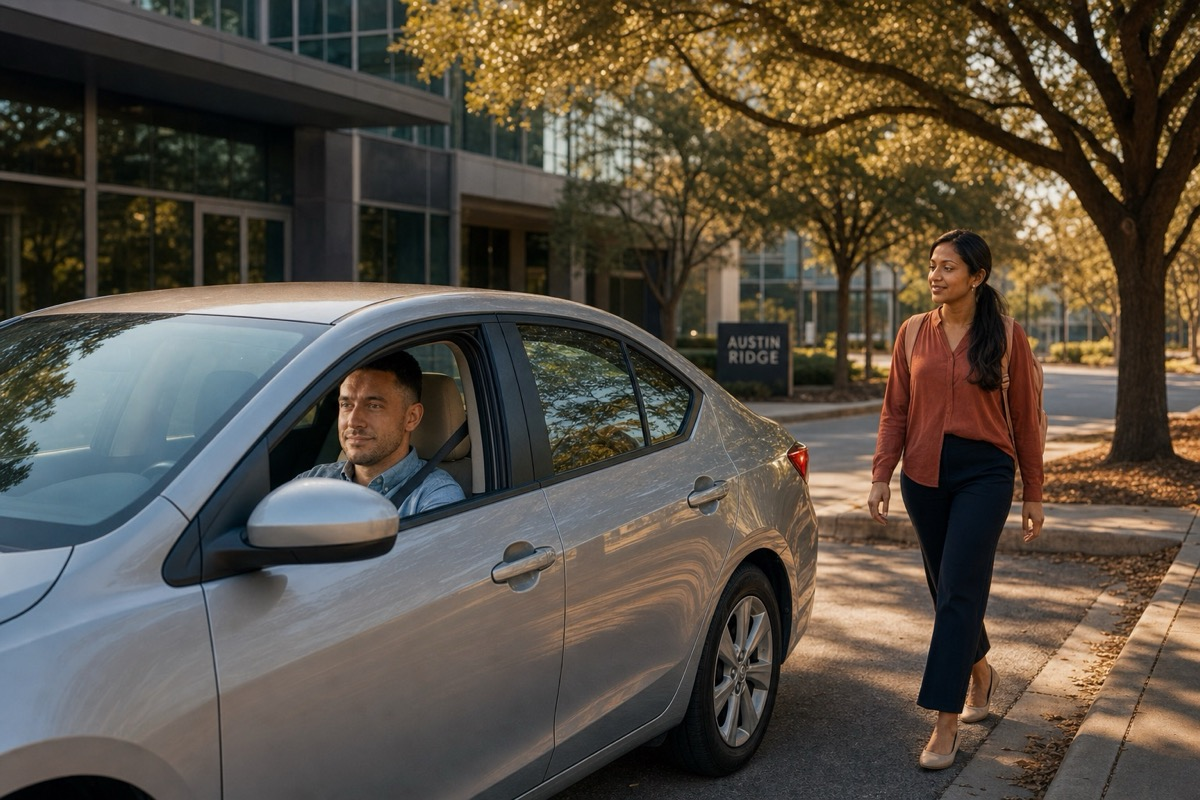
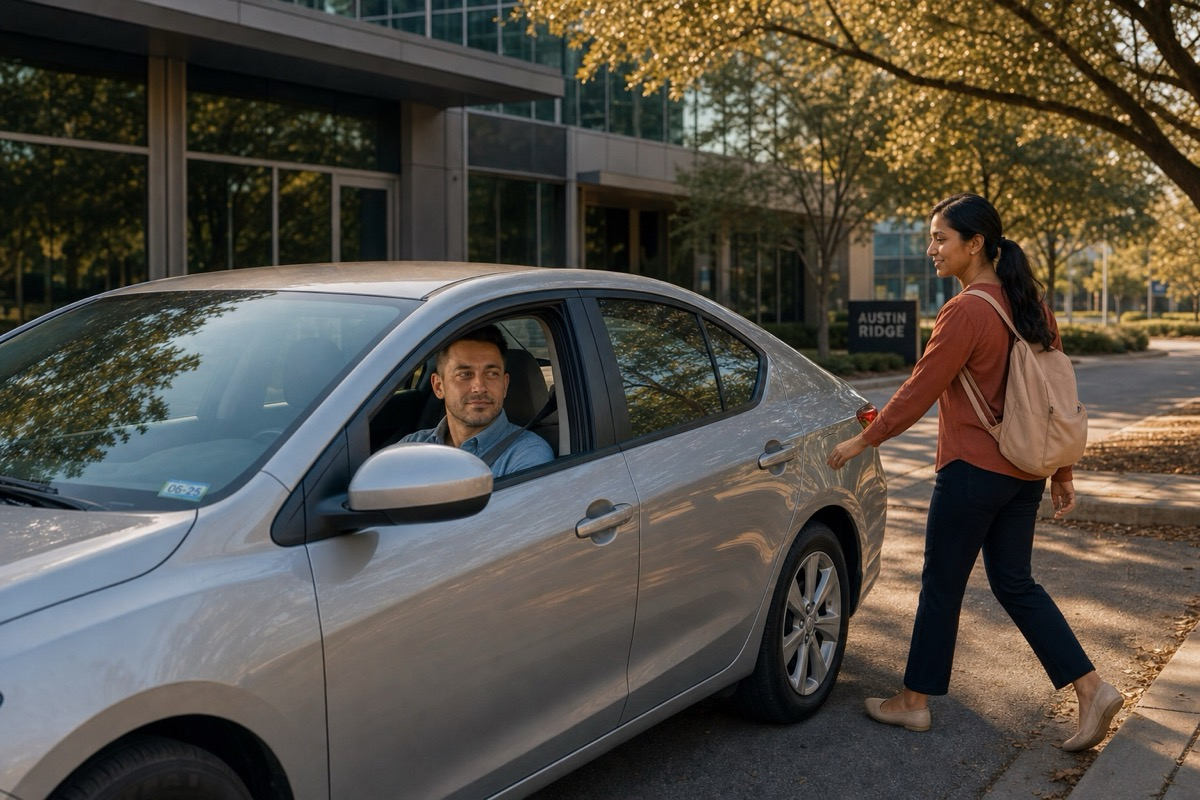
Fix hero gaze, safety shield, LHD convenience, and center promise cards.
Point Priya toward Jordan, enlarge the red trust shield, correct US driver side, and center-align Why Kommutr text.

diff --git a/styles.css b/styles.css
@@ -588,6 +588,7 @@ body.nav-open .nav__links--center .nav__mobile-cta a {
   padding: 0 0 1.35rem;
   min-width: 0;
   overflow: hidden;
+  text-align: center;
 }
 
 .promise__media {
@@ -607,7 +608,7 @@ body.nav-open .nav__links--center .nav__mobile-cta a {
 .promise__icon {
   width: 2.5rem;
   height: 2.5rem;
-  margin: 0 1.35rem 0.85rem;
+  margin: 0 auto 0.85rem;
   color: var(--color-accent);
   display: flex;
   align-items: center;
@@ -624,6 +625,7 @@ body.nav-open .nav__links--center .nav__mobile-cta a {
   font-size: 1.25rem;
   font-weight: 600;
   color: #1e293b;
+  text-align: center;
 }
 
 .promise__text {
@@ -631,6 +633,7 @@ body.nav-open .nav__links--center .nav__mobile-cta a {
   color: var(--color-text-secondary);
   font-size: 0.9375rem;
   line-height: 1.55;
+  text-align: center;
 }
 
 .timeline {